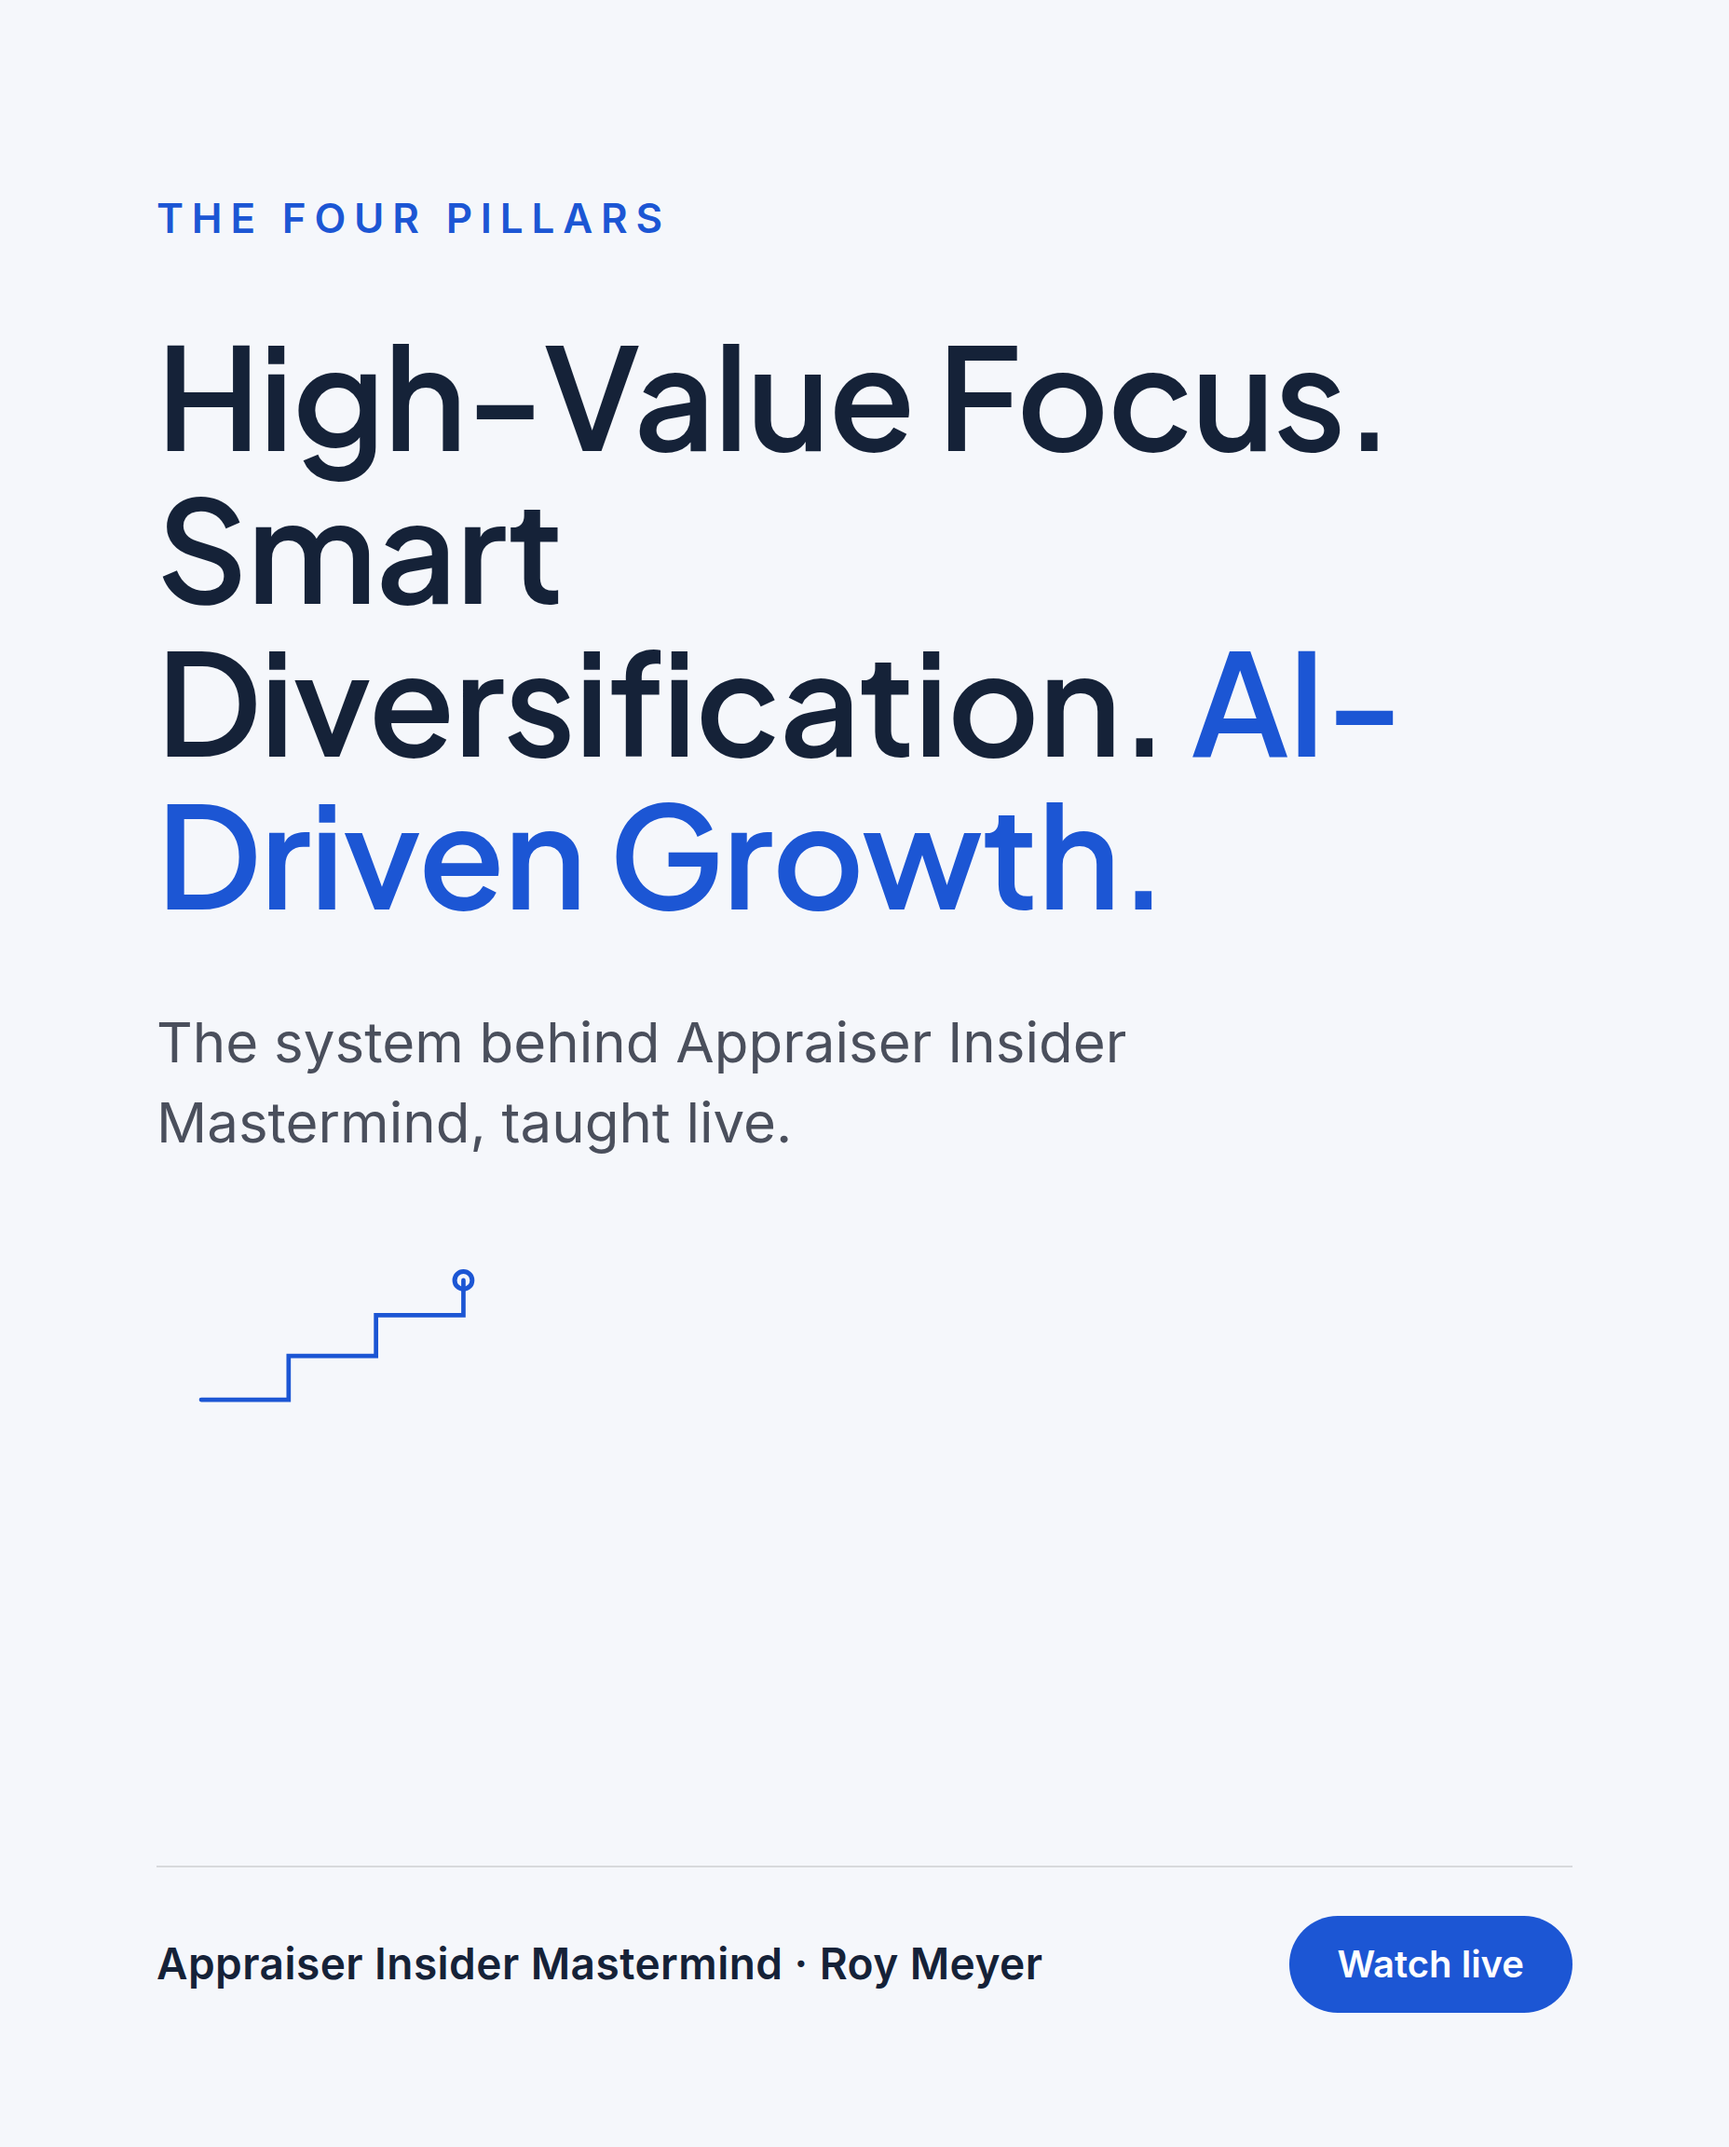
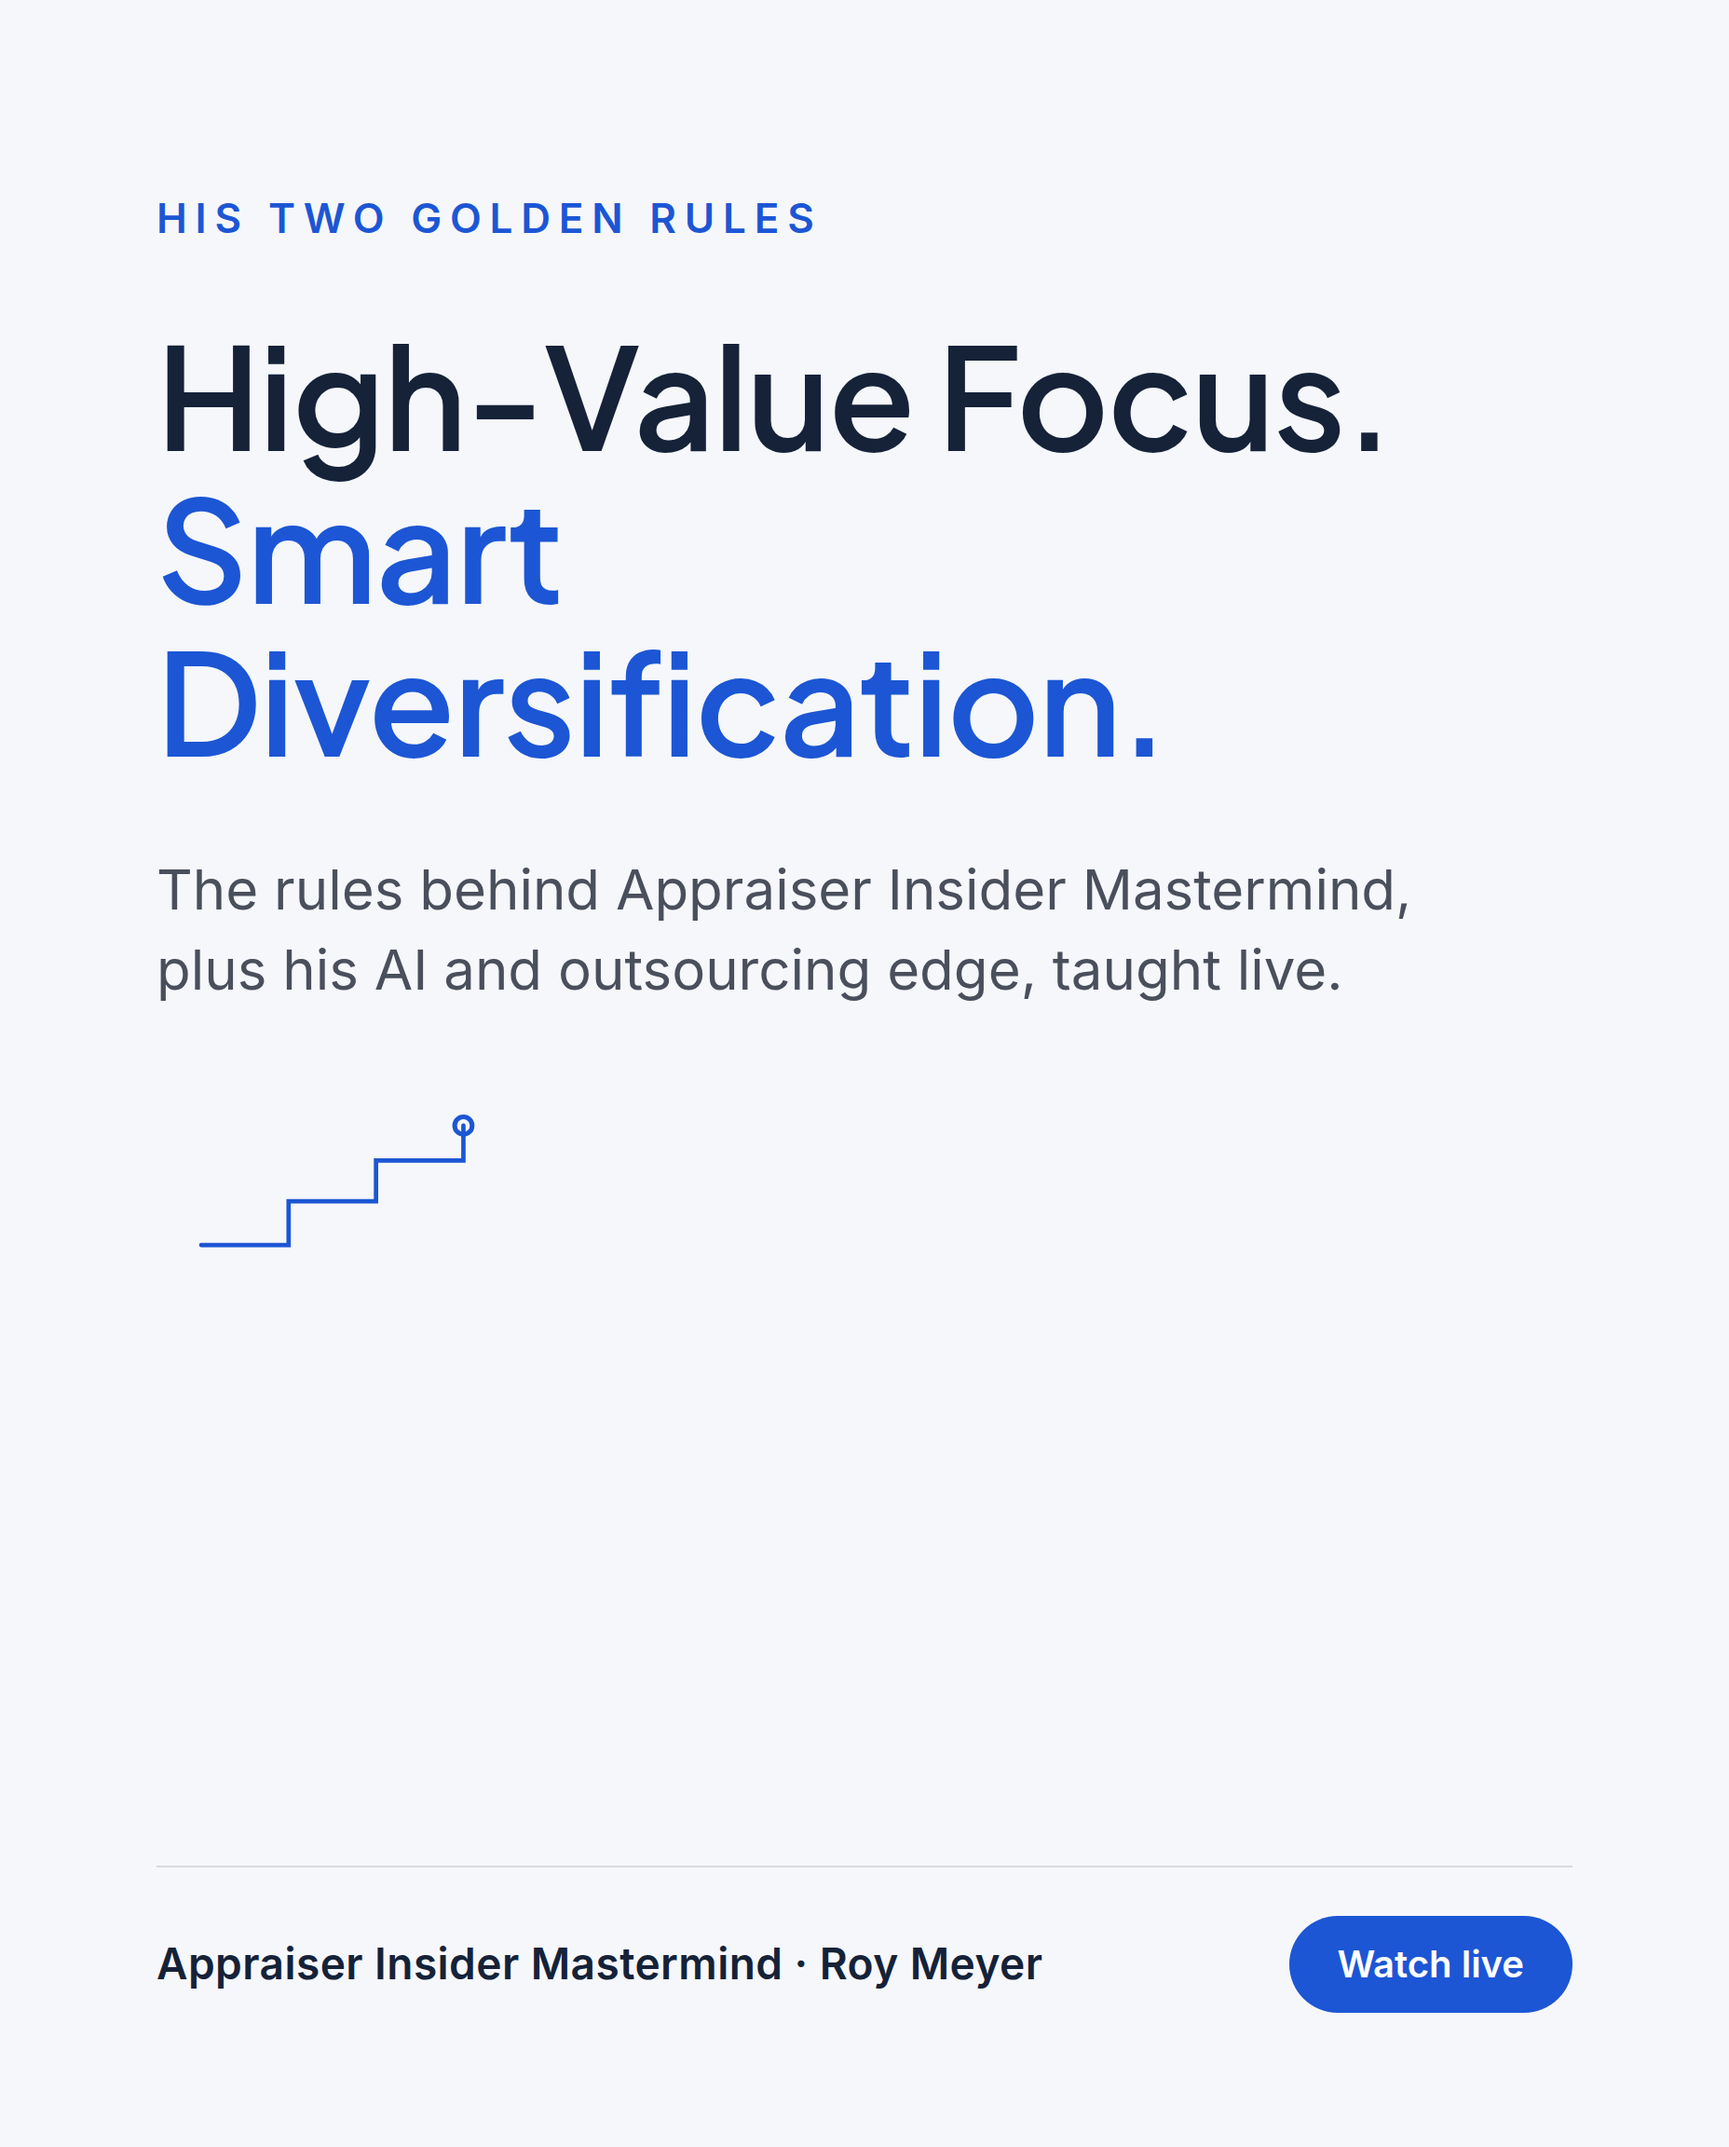
showcase: roy-meyer-appraisal

diff --git a/roy-meyer-appraisal/deck.html b/roy-meyer-appraisal/deck.html
@@ -86,7 +86,7 @@
 
 <script>
 const S = [
- {t:'title',title:'The Outsourcing Guide for Appraisers',sub:'A live masterclass on scaling with AI and virtual teams, taught by a Certified Appraiser with nearly 24 years in the profession.',brand:true,arc:'title'},
+ {t:'title',title:'The Outsourcing Guide for Appraisers',sub:'A live masterclass on scaling with AI and virtual teams, taught by an appraiser with a quarter-century in the profession.',brand:true,arc:'title'},
  {t:'normal',k:'Who this is for',title:'You are the busiest person in your own appraisal business.',body:'You run inspections, write reports, chase non-lender leads, and answer the phone, often all in the same day. You know the business needs to grow into new revenue, but there is no time left in the week to build anything new.'},
  {t:'dark',title:'An appraisal practice that only runs when you are behind the keyboard is not a business. It is a job with more paperwork.'},
 
@@ -95,19 +95,19 @@ const S = [
  {t:'normal',k:'The actual fix',title:'The bottleneck moves. It never disappears, unless something changes who does the work.',body:'Every hour you spend on a task only you can do is an hour you are not spending growing the business. The fix is not working harder. It is building a system that lets AI and a virtual team carry what does not require you personally.'},
  {t:'dark',title:'The outsourcing guide exists because information was never the problem. Delegation was.'},
 
- {t:'section',idx:'Part Two',title:'The Four Pillars, Named'},
- {t:'normal',k:'High-Value Focus',title:'Concentrate your week on the work that actually moves income.',body:'Most appraisal-business weeks are full of low-yield tasks that feel productive but do not move revenue. High-Value Focus is a deliberate filter: keep the work only you can do, hand off the rest.'},
- {t:'normal',k:'Smart Diversification',title:'Non-lender work, without betting the whole practice on lending volume.',body:'Diversification only works if it does not require you to personally run two businesses at once. This pillar is about building non-lender revenue that survives a lending slowdown, on a schedule the rest of the system supports.'},
- {t:'normal',k:'AI-Driven Growth',title:'AI automating the complex tasks, not just the easy ones.',body:'This is the pillar Roy built the mastermind around: using AI to automate real workflow, from scheduling to report drafting assistance to triage, so growth does not require more hours from the owner.'},
- {t:'normal',k:'Virtual Assistant Mastery',title:'Delegation and outsourcing, documented and repeatable.',body:'The subject of Roy’s own book, The Outsourcing Guide for Appraisers: how to hand off real work to a virtual team without losing quality or control, so output grows without payroll growing at the same rate.'},
- {t:'dark',title:'Four pillars. Not four more things to learn. Four things you can start installing this month.'},
+ {t:'section',idx:'Part Two',title:'The Two Golden Rules'},
+ {t:'normal',k:'Golden rule one',title:'High-Value Focus: concentrate your week on the work that actually moves income.',body:'Most appraisal-business weeks are full of low-yield tasks that feel productive but do not move revenue. High-Value Focus is Roy’s own filter: keep the work only you can do, hand off the rest.'},
+ {t:'normal',k:'Golden rule two',title:'Smart Diversification: non-lender work, without betting the whole practice on lending volume.',body:'Diversification only works if it does not require you to personally run two businesses at once. Roy’s second golden rule is building non-lender revenue that survives a lending slowdown, on a schedule the rest of the system supports.'},
+ {t:'normal',k:'The AI edge',title:'AI automating the complex tasks, not just the easy ones.',body:'Roy built Appraiser Insider Mastermind around this: using AI to automate real workflow, from scheduling to report drafting assistance to triage, so growth does not require more hours from the owner.'},
+ {t:'normal',k:'The outsourcing edge',title:'Virtual Assistant Mastery: delegation and outsourcing, documented and repeatable.',body:'The subject of Roy’s own book, The Outsourcing Guide for Appraisers: how to hand off real work to a virtual team without losing quality or control, so output grows without payroll growing at the same rate.'},
+ {t:'dark',title:'Two golden rules, plus the AI and outsourcing edge. Not four more things to learn. Things you can start installing this month.'},
 
- {t:'section',idx:'Part Three',title:'What a Practice Looks Like With All Four Running'},
- {t:'normal',k:'Why Roy Meyer',title:'Nearly 24 years appraising, plus the guide the industry uses.',body:'Roy is a Certified Appraiser, co-founder of the Appraiser’s Club, and author of The Outsourcing Guide for Appraisers. He has consulted with hundreds of appraisers, brokers, Realtors, and investors on exactly this shift.'},
+ {t:'section',idx:'Part Three',title:'What a Practice Looks Like With All of It Running'},
+ {t:'normal',k:'Why Roy Meyer',title:'A quarter-century appraising, and the book that started this mastermind.',body:'Roy has spent a quarter-century in the appraisal industry (his own words), co-founded the Appraiser’s Club, and wrote The Outsourcing Guide for Appraisers. He has consulted with hundreds of appraisers, brokers, Realtors, and investors on exactly this shift.'},
 
  {t:'section',idx:'Your Next Step',title:'Apply for Appraiser Insider Mastermind'},
  {t:'normal',k:'How it works',title:'A short application, a 1-on-1 discovery call, then the room.',body:'Appraiser Insider Mastermind runs on application and a personal discovery call, not a sales page. Members get bi-monthly deep-dives, a VA and outsourcing training library, and AI-transformation content built specifically for appraisers.'},
- {t:'cta',title:'Ready to install all four pillars?',chips:['Apply for the mastermind','Book your discovery call'],disc:'Educational content for licensed real estate appraisers. No income or production-volume result is guaranteed. Results vary by practice, market, and execution.'},
+ {t:'cta',title:'Ready to install the golden rules?',chips:['Apply for the mastermind','Book your discovery call'],disc:'Educational content for licensed real estate appraisers. No income or production-volume result is guaranteed. Results vary by practice, market, and execution.'},
 ];
 
 const deck=document.getElementById('deck');

diff --git a/roy-meyer-appraisal/index.html b/roy-meyer-appraisal/index.html
@@ -72,12 +72,12 @@
   </div>
 
   <h1>The Outsourcing Guide for Appraisers</h1>
-  <p class="framing">Here is what I mentioned in my email: the masterclass, the numbers, and the auction check that did not fit in the message. You already built the hard part: the four named pillars behind Appraiser Insider Mastermind, High-Value Focus, Smart Diversification, AI-Driven Growth, Virtual Assistant Mastery, plus the book that started it all. <strong>What you don't have is a system to bring in appraisal business owners who have never heard of you and get them into your application. This is that system.</strong></p>
+  <p class="framing">Here is what I mentioned in my email: the masterclass, the numbers, and the auction check that did not fit in the message. You already built the hard part: your two golden rules behind Appraiser Insider Mastermind, High-Value Focus and Smart Diversification, plus your AI and outsourcing edge and the book that started it all. <strong>What you don't have is a system to bring in appraisal business owners who have never heard of you and get them into your application. This is that system.</strong></p>
 
   <div class="section">
     <div class="section-label">The masterclass, already built</div>
     <iframe class="deck-embed" src="/roy-meyer-appraisal/deck.html" allowfullscreen title="The Outsourcing Guide for Appraisers masterclass deck"></iframe>
-    <div class="deck-caption">Rather than describe what I would build, I built a piece of it: a live masterclass drawn from your own four pillars, ready to present under your name. It runs alongside your existing application and discovery-call process, a second, always-on path in. Use arrow keys or click to navigate.</div>
+    <div class="deck-caption">Rather than describe what I would build, I built a piece of it: a live masterclass drawn from your own golden rules and your AI and outsourcing edge, ready to present under your name. It runs alongside your existing application and discovery-call process, a second, always-on path in. Use arrow keys or click to navigate.</div>
   </div>
 
   <div class="section">
